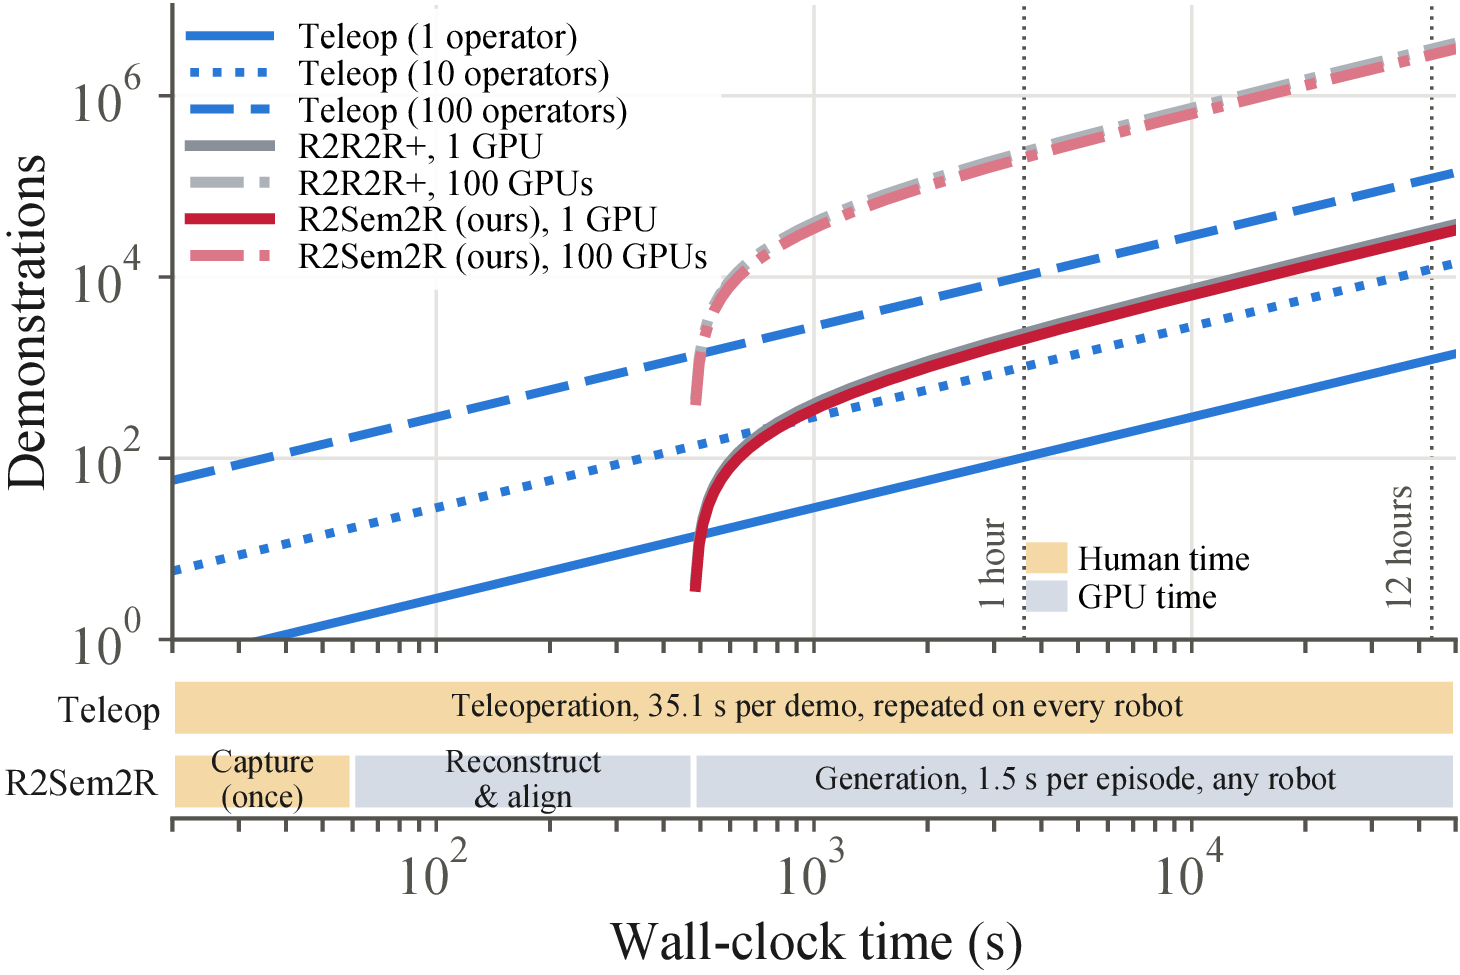
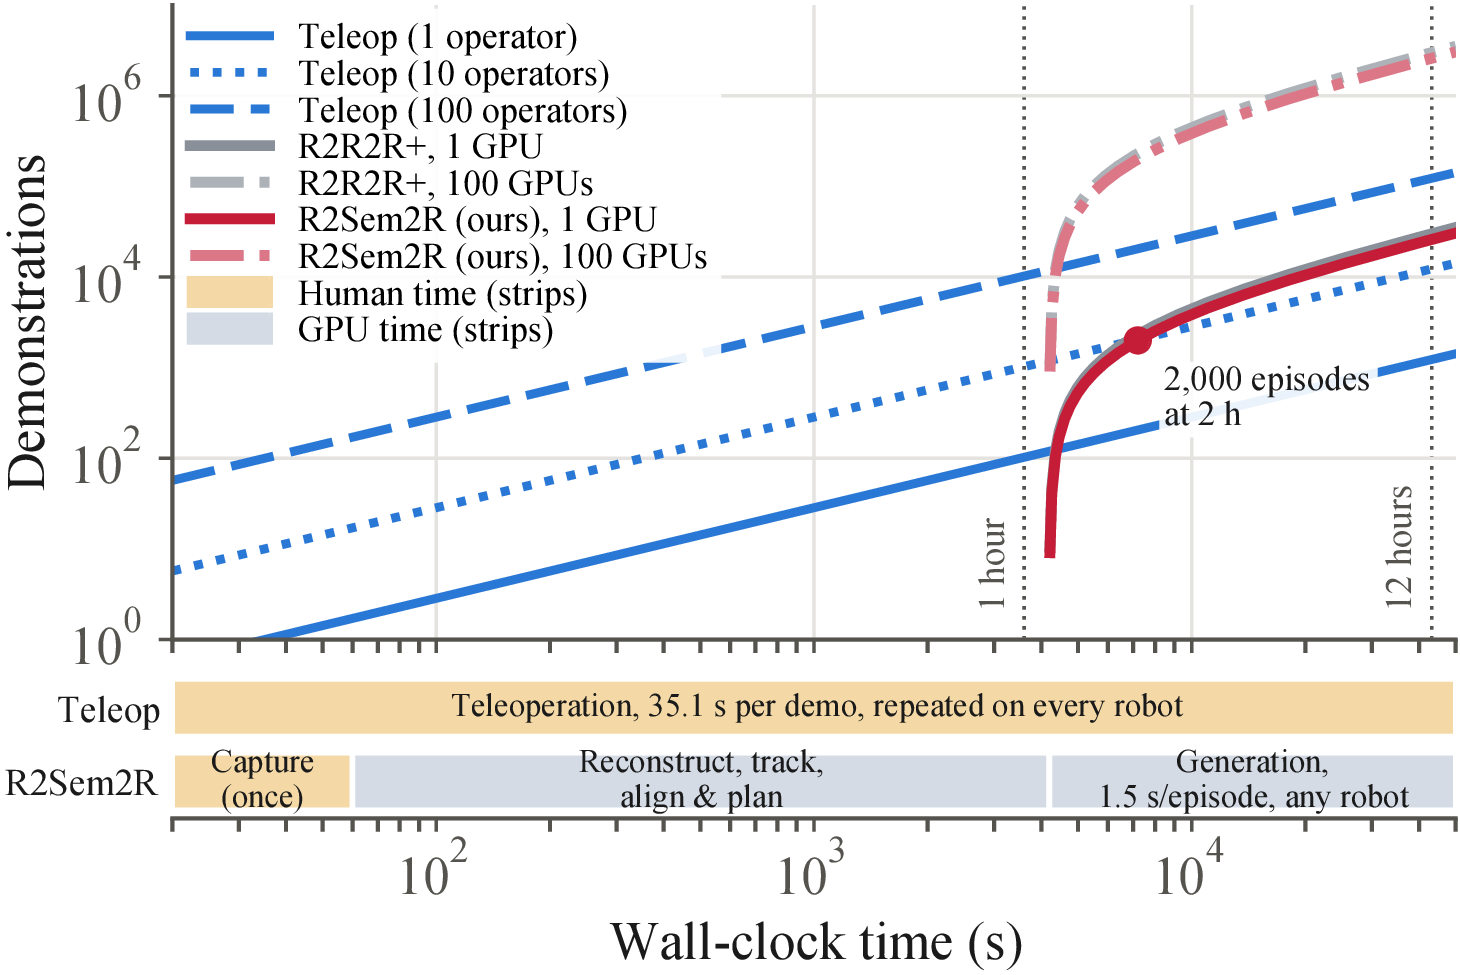
Cost demo: about 70 min of setup so R2Sem2R reaches 2,000 episodes at about 2 h
Matches the paper: 1 min of human capture plus GPU processing before
generation; guides at 1 h, 2 h, 12 h; robot setup noted as not shown.
Static cost figure re-rendered from the paper.

diff --git a/static/demos/cost/cost.js b/static/demos/cost/cost.js
@@ -1,12 +1,12 @@
 // What the data costs: demonstrations produced against wall-clock time, with the model and rates of the paper's
 // throughput figure (results/make_figures.py): teleoperation 35.1 s per demonstration per operator; R2R2R+ and R2Sem2R
-// a one-time 10-minute setup, then 1.3 s and 1.5 s per episode per GPU. Set operators, GPUs and a time, or drag on
+// a one-time setup of about 70 minutes (1 min of human capture, then GPU processing), then 1.3 s and 1.5 s per episode per GPU. Set operators, GPUs and a time, or drag on
 // the plot; the chips read off the number of completed demonstrations at that time.
 import { h, s, log, onResize, swatch, injectCSS, fmt } from '../scaling/charts.js';
 
-const TELEOP_S = 35.1, R2R2R_S = 1.3, OURS_S = 1.5, SETUP_S = 600;
+const TELEOP_S = 35.1, R2R2R_S = 1.3, OURS_S = 1.5, SETUP_S = 4200;
 const T0 = 60, T1 = 86400, Y0 = 1, Y1 = 1e7;
-const GUIDES = [[600, '10 min', '10 min'], [3600, '1 hour', '1 h'], [43200, '12 hours', '12 h']];
+const GUIDES = [[3600, '1 hour', '1 h'], [7200, '2 hours', '2 h'], [43200, '12 hours', '12 h']];
 
 const LINES = [
   { id: 'teleop', name: 'Teleop', count: (t, st) => st.ops * t / TELEOP_S,

diff --git a/index.html b/index.html
@@ -587,8 +587,9 @@ parallel. In every episode the carry replays the mug trajectory tracked from the
     <div class="demo-fallback">Interactive calculator of demonstrations produced against wall-clock time. It needs JavaScript.</div>
   </div>
   <p class="hero-cap"><b>Interactive: what the data costs.</b> Demonstrations against wall-clock time at the rates in the
-  paper: teleoperation takes 35.1&nbsp;s per demonstration per operator, while R2R2R+ and R2Sem2R pay a one-time
-  10-minute setup and then generate an episode every 1.3&nbsp;s and 1.5&nbsp;s per GPU. Set the operators, the GPUs and
+  paper: teleoperation takes 35.1&nbsp;s per demonstration per operator, while R2R2R+ and R2Sem2R need about a minute of
+  human capture and about 70 minutes of GPU processing, then generate an episode every 1.3&nbsp;s and 1.5&nbsp;s per GPU, so
+  one GPU reaches 2,000 R2Sem2R episodes in about 2 hours. Robot setup, needed by every method, is not shown. Set the operators, the GPUs and
   the time, or drag across the chart; the chips give the demonstrations completed by then.</p>
   <!-- /slot:cost -->
   </details>
